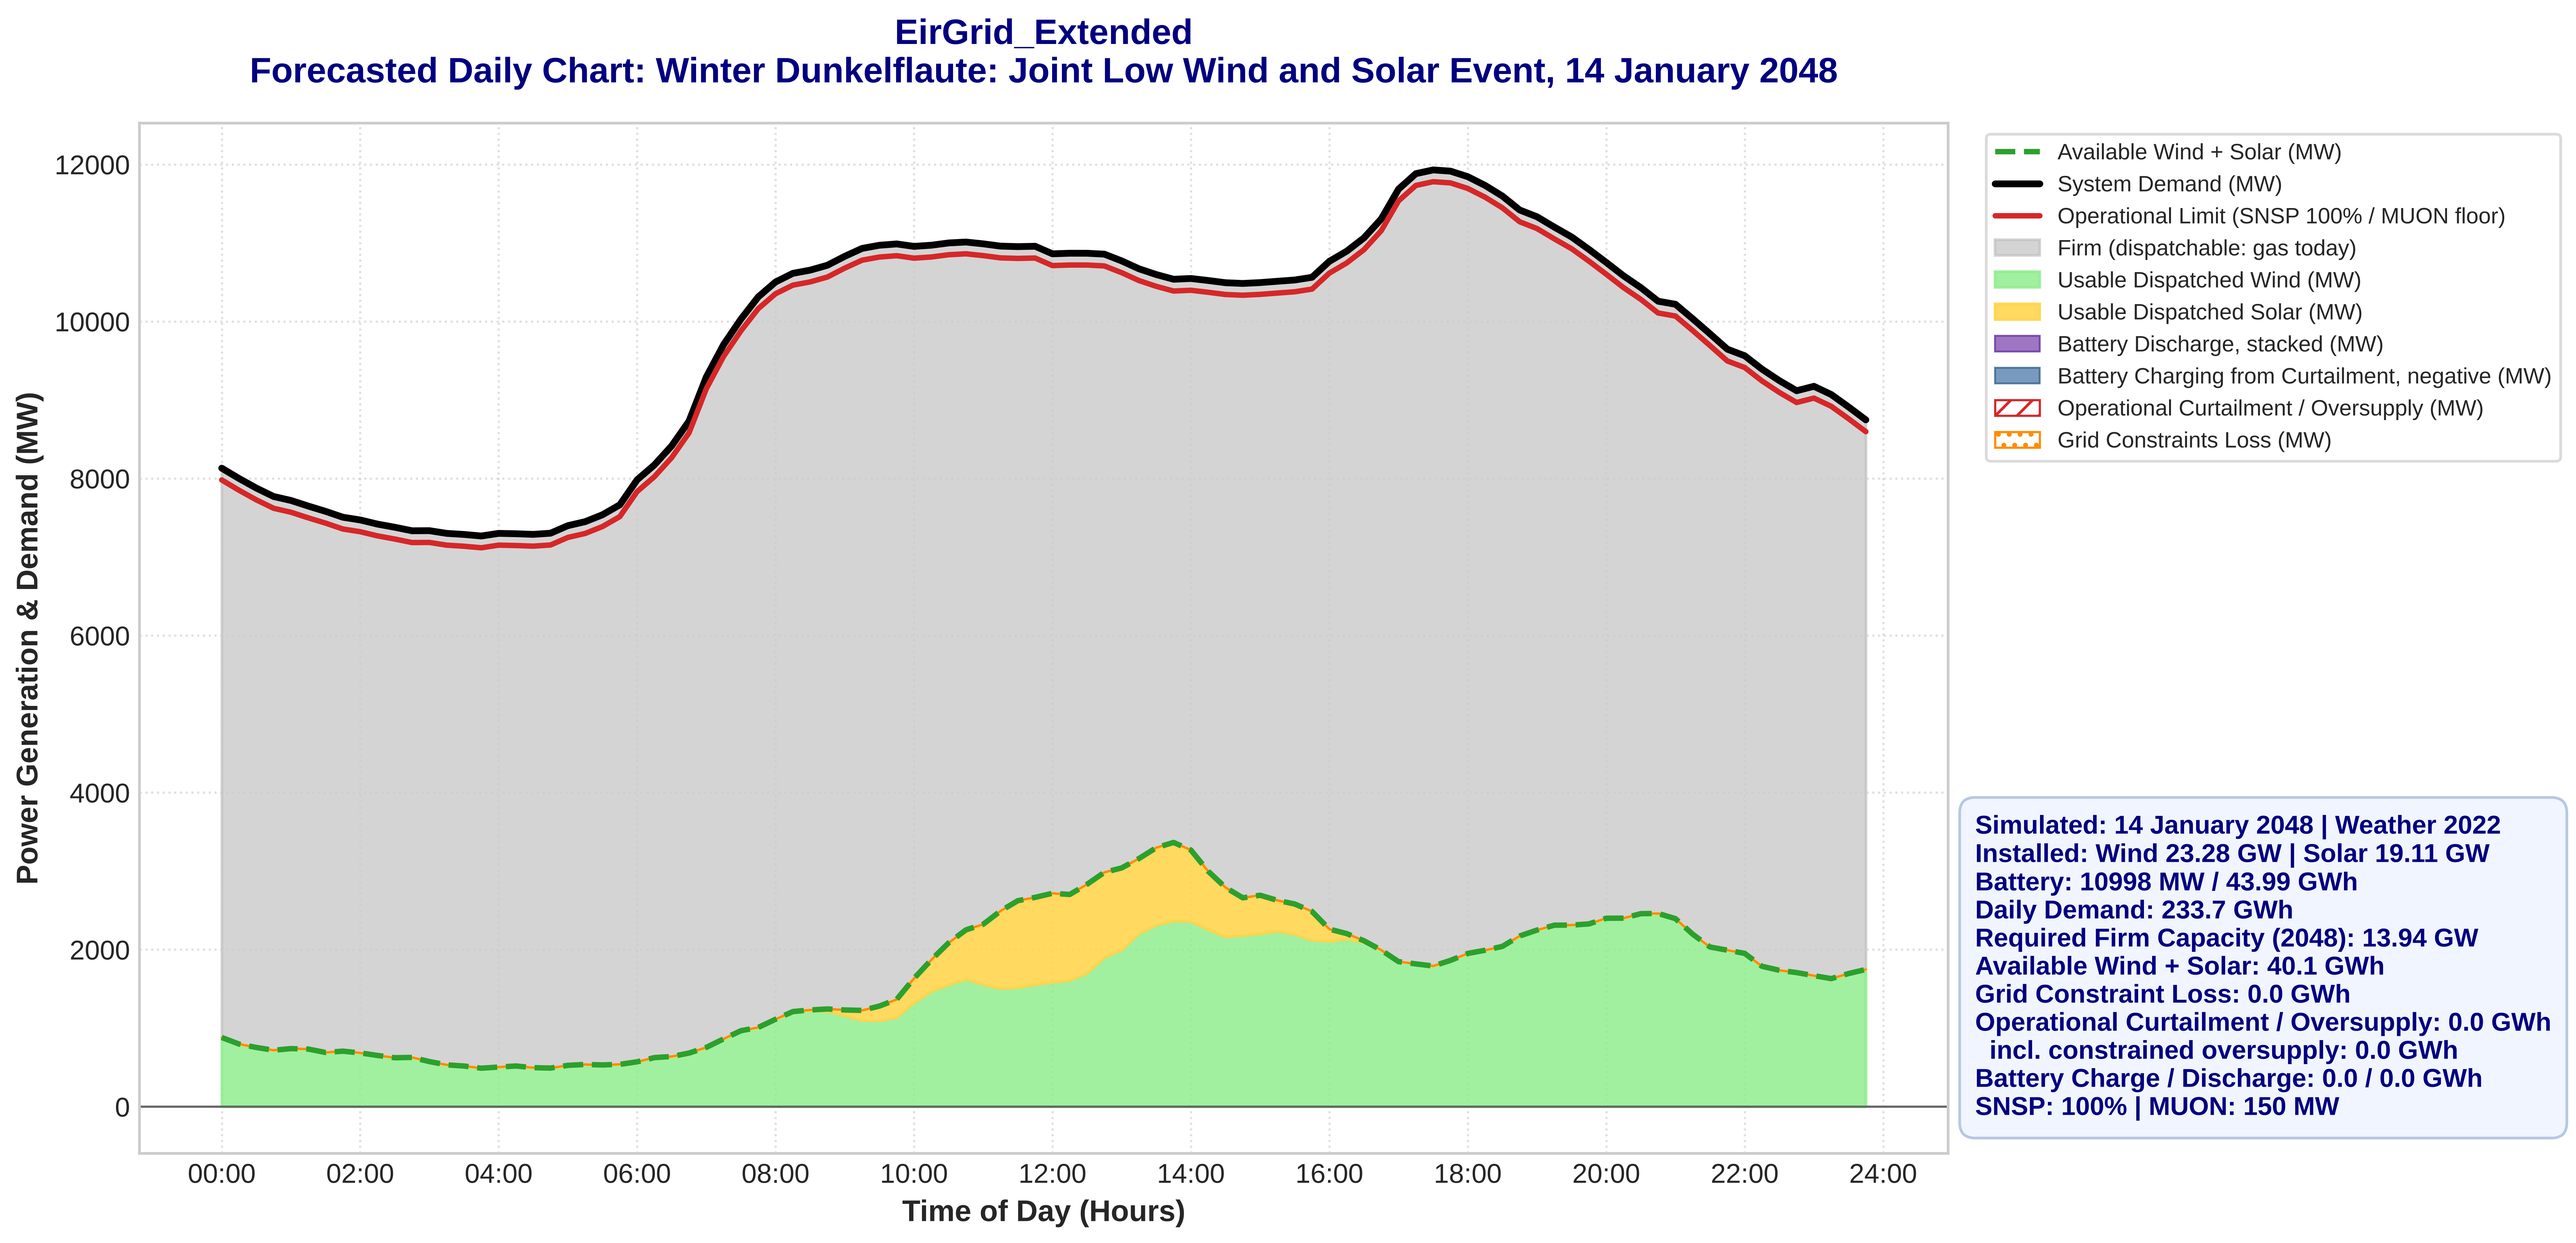
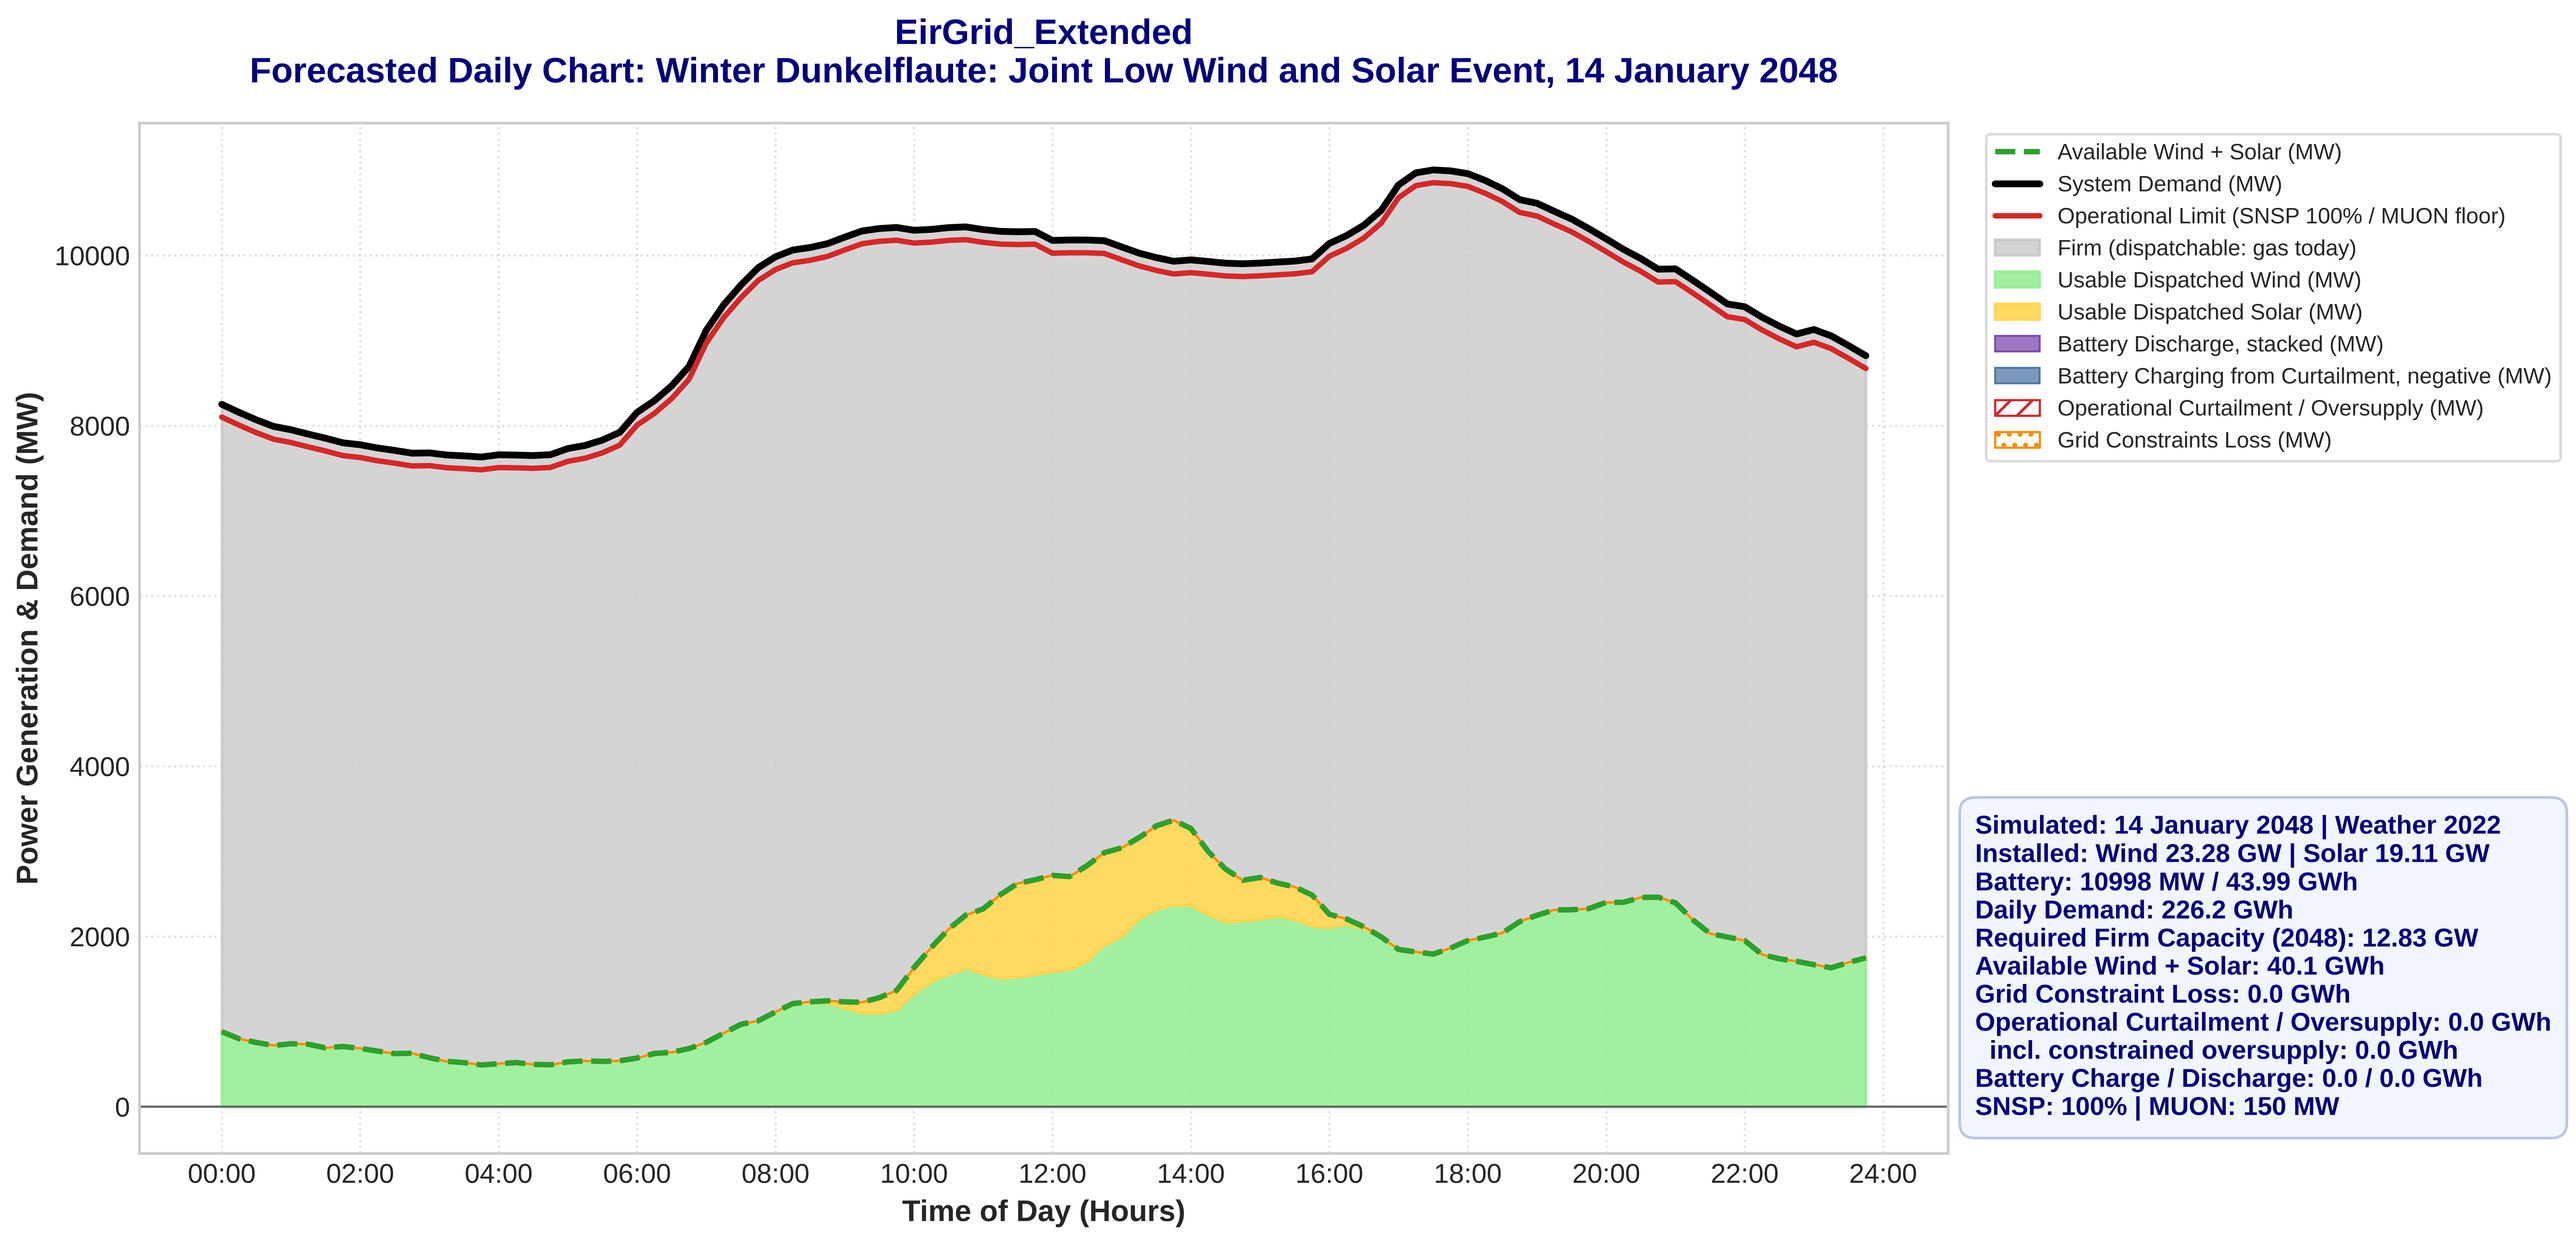
Remaining reruns on the flat-growth model; Figures 4 and S2 redrawn
Claude-Session: https://claude.ai/code/session_011KZyoeWRXAGqHFgRpVqSJt

diff --git a/CHANGELOG.md b/CHANGELOG.md
@@ -210,6 +210,32 @@ From Mark's review of the gas check (4 November). Gas supply only; no other resu
 
 Worst days are unchanged (393 in 2026; 648 and 593 in 2050). In 2035 the worst day is within 1% of supply on both pathways.
 
+## Remaining reruns on the flat-growth model: 12 November 2026
+
+No model change. The cases listed as not rerun in the entry below are now rerun on `main` after PR #58, and Figures 4 and S2 are redrawn (`analysis/output/paper/`). The Section 6.3 figures had not been rerun since before the offshore yield correction of 11 November, so most of their change comes from that correction, not from flat growth.
+
+| Result | Paper before | Now |
+|---|---|---|
+| GSS-1 2035 case on each weather year 2014 to 2025, Ireland total (%) | 22.3 to 28.5 | 22.3 to 28.4 |
+| Cover that reproduces EirGrid's constraint in Gamma's order; constraint 2030 / 2035 (%) | 60%; 6.3 / 6.0 | 60%; 6.0 / 5.6 |
+| Constraint with 40% cover, 2030 / 2035 (%) | 7.4 / 7.5 | 7.1 / 7.1 |
+| Constraint in EirGrid's order, published path, 2030 / 2035 (%) | 5.1 / 4.2 | 4.1 / 3.4 |
+| Same with 40% cover (%) | 2.4 / 1.1 | 1.8 / 0.7 |
+| Total with 40% cover, 2030 / 2035 (%) | 20.0 / 22.9 (supplement) | 21.8 / 25.6 |
+| Fossil share 2050, EirGrid_Extended, residual at zero / doubled (%) | 57.5 / 60.9 | unchanged |
+| Same at COP 2.5 (%) | 61.6 | unchanged |
+| Same at firm efficiencies 60% and 42% / 50% and 34% (%) | 58.7 / 59.8 | unchanged |
+| Same with offshore at 45% in 2020 (%) | 58.9 | 58.8 |
+| Every firm unit at 35%: fossil share higher by (points, 2050 and 2100, both pathways) | 1.4 to 4.0 | 1.4 to 4.1 |
+| COP 3.9: fossil share lower by (points) | 0.8 to 2.3 | unchanged |
+| Historical_Trend on slower operating rules: largest change in dispatch down / fossil share (points) | 1.4 / 0.2 | 1.4 / 0.3 |
+| Figure 4 day (14 January 2048): wind and solar of demand (GWh) | 40 of 234 | 40 of 226 |
+| Figure S2 day (25 April 2048): wind and solar above demand | 10:45 to 18:00 | 10:30 to 18:30 |
+| Year delivered wind and solar, with battery discharge, reaches 57.8 TWh (EirGrid_Extended / Historical_Trend) | 2049 / 2073 | 2048 / 2072 |
+| Hydrogen need at fleet efficiency overtaken by dispatch down from (EirGrid_Extended) | 2062 (supplement) | 2060 |
+
+Counted in EirGrid's order, Gamma's constraint on the published path is now 1.6 to 2.6 points below EirGrid's, not within 0.7 points. The paper's conclusion on this is reworded to say so.
+
 ## Underlying demand growth as flat load: 12 November 2026
 
 Change to the model (group decision, recorded in `CONTEXT.md`). Demand growth since 2026 that is neither heat-pump nor transport load is added as flat load, because most of it is data-centre demand. It scaled the recorded demand shape before, which overstated peak demand, firm capacity and the worst gas day. `GAMMA_FLAT_GROWTH=0` reproduces the earlier results. The fixed 4% import allowance stays in the headline fossil share (also in `CONTEXT.md`).
